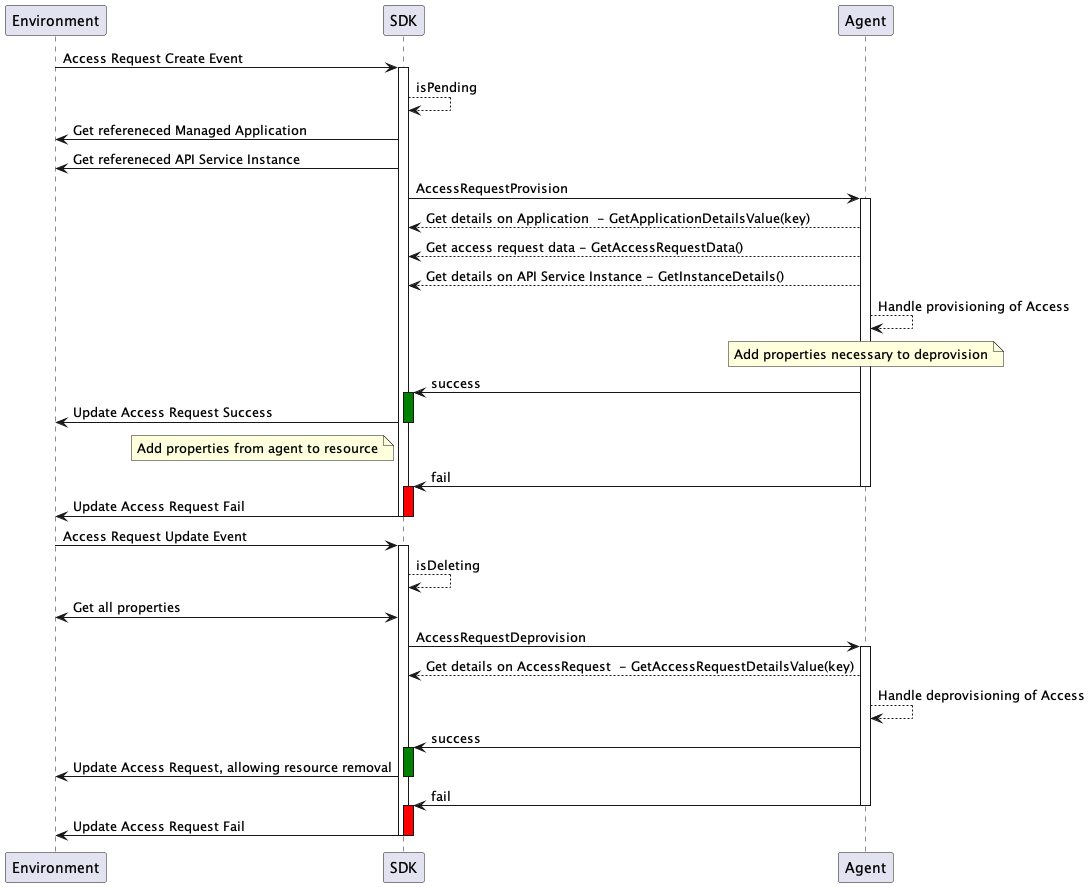
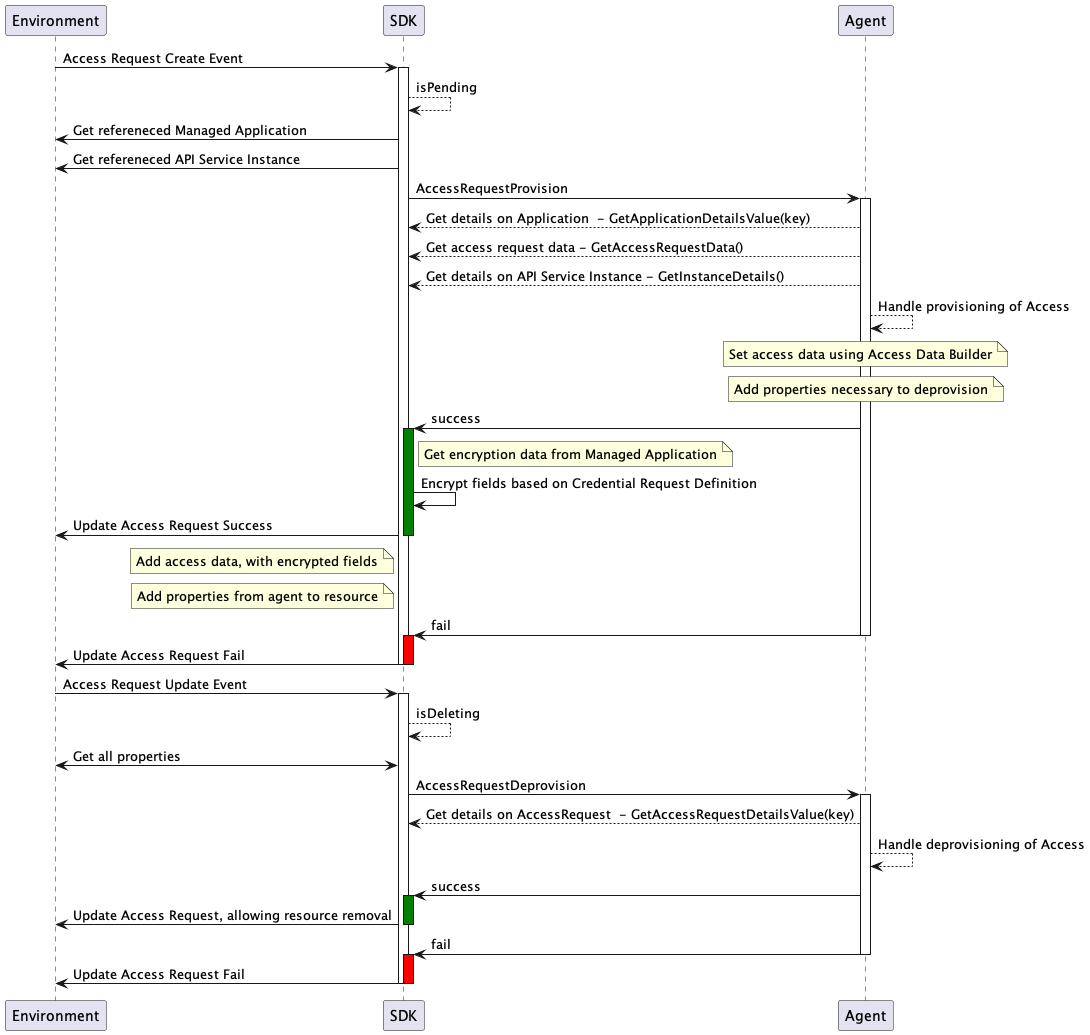
APIGOV-22682 - update docs

diff --git a/docs/discovery/provisioning.md b/docs/discovery/provisioning.md
@@ -18,7 +18,9 @@
       - [RequestStatus return structure](#requeststatus-return-structure)
     - [Application Request Provision and Deprovision](#application-request-provision-and-deprovision)
     - [Access Request Provision and Deprovision](#access-request-provision-and-deprovision)
+      - [Access Request Provisioning](#access-request-provisioning)
     - [Credential Request Provision and Deprovision](#credential-request-provision-and-deprovision)
+      - [Credential Provisioning](#credential-provisioning)
 
 Marketplace Provisioning allows the consumer to create applications, associate products, and create credentials. Amplify Agents SDK watches for API server resources to trigger provisioning events for the agent to handle. The agents can configure data that is required from consumers to provision access or create credentials for the resource in the connected gateway.
 
@@ -52,6 +54,26 @@ func createAccessRequestDefinition(apiName string, tiers []string) {
         SetEnumValues(tiers).
         SetSortEnumValues()).
     Register()
+}
+```
+
+Here are all of the methods allowed on the AccessRequestBuilder
+
+```go
+// AccessRequestBuilder - aids in creating a new access request
+type AccessRequestBuilder interface {
+  // Sets the name of the access request definition
+  SetName(name string) AccessRequestBuilder
+  // Sets the display name of the access request definition
+  SetTitle(title string) AccessRequestBuilder
+  // Sets the Request Schema, data provided by the requestor
+  SetRequestSchema(schema SchemaBuilder) AccessRequestBuilder
+  // Sets the Provision Schema, data provided to the requestor upon provisioning
+  SetProvisionSchema(schema SchemaBuilder) AccessRequestBuilder
+  // Helper to replicate the Request Schema into the Provision Schema
+  SetProvisionSchemaToRequestSchema() AccessRequestBuilder
+  // Builds the AccessRequestDefinition and sends it to API Central
+  Register() (*v1alpha1.AccessRequestDefinition, error)
 }
 ```
 
@@ -90,6 +112,28 @@ func createCredentialRequestDefinitions() {
     agent.WithCRDOAuthPublicKey(),                     // its a key based credential, add public key request property
     agent.WithCRDRequestSchemaProperty(oAuthTypeProp), // add a request schema property
   ).Register()
+}
+```
+
+Here are all of the methods allowed on the AccessRequestBuilder
+
+```go
+// CredentialRequestBuilder - aids in creating a new credential request
+type CredentialRequestBuilder interface {
+  // Sets the name of the credential
+  SetName(name string) CredentialRequestBuilder
+  // Sets the display name of this credential in the UI
+  SetTitle(title string) CredentialRequestBuilder
+  // Sets the Request Schema, data supplied by the requestor
+  SetRequestSchema(schema SchemaBuilder) CredentialRequestBuilder
+  // Sets the Provision Schema, data provided to the requestor upon provisioning
+  SetProvisionSchema(schema SchemaBuilder) CredentialRequestBuilder
+  // Sets a list of webhook names, separately created in Central, that are called on Credential state transitions
+  SetWebhooks(webhooks []string) CredentialRequestBuilder
+  // Adds a webhook name, separately created in Central, that is called on Credential state transitions
+  AddWebhook(webhook string) CredentialRequestBuilder
+  // Builds the CredentialRequestDefinition and sends it to API Central
+  Register() (*v1alpha1.CredentialRequestDefinition, error)
 }
 ```
 
@@ -346,6 +390,10 @@ type ApplicationRequest interface {
   GetManagedApplicationName() string
   // GetApplicationDetailsValue returns a value found on the 'x-agent-details' sub resource of the ManagedApplication
   GetApplicationDetailsValue(key string) string
+	// GetTeamName gets the owning team name for the managed application
+	GetTeamName() string
+	// GetID returns the ID of the resource for the request
+	GetID() string
 }
 ```
 
@@ -362,20 +410,48 @@ Both provision and deprovision requests will receive an AccessRequest object tha
 ```go
 // AccessRequest - interface for agents to use to get necessary access request details
 type AccessRequest interface {
-  // GetApplicationName returns the name of the managed application for this credential
-  GetApplicationName() string
-  // GetAccessRequestDetailsValue returns a value found on the 'x-agent-details' sub resource of the AccessRequest.
-  GetAccessRequestDetailsValue(key string) string
   // GetApplicationDetailsValue returns a value found on the 'x-agent-details' sub resource of the ManagedApplications.
   GetApplicationDetailsValue(key string) string
-  // GetInstanceDetails returns the 'x-agent-details' sub resource of the API Service Instance
-  GetInstanceDetails() map[string]interface{}
+  // GetApplicationName returns the name of the managed application for this credential
+  GetApplicationName() string
+  // GetID returns the ID of the resource for the request
+  GetID() string
+  // GetAccessRequestDetailsValue returns a value found on the 'x-agent-details' sub resource of the AccessRequest.
+  GetAccessRequestDetailsValue(key string) string
   // GetAccessRequestData returns the map[string]interface{} of data from the request
   GetAccessRequestData() map[string]interface{}
+  // GetAccessRequestProvisioningData returns the interface{} of data from the provisioning response
+  GetAccessRequestProvisioningData() interface{}
+  // GetInstanceDetails returns the 'x-agent-details' sub resource of the API Service Instance
+  GetInstanceDetails() map[string]interface{}
 }
 ```
 
 `GetAccessRequestData()` will have the data requested from the Consumer while creating the request.  This data will match the Access Request Definition schema.
+
+`GetAccessRequestProvisioningData()` will have the access data returned by the agent then the AccessRequestProvision method was called.
+
+
+#### Access Request Provisioning
+
+The following method needs to be implemented and will be invoked when a new AccessRequest resource is created in the environment the agent is linked to.
+
+```go
+  AccessRequestProvision(AccessRequest) (RequestStatus, AccessData)
+```
+
+The provision handling expects a response with 2 values, the [RequestStatus](#requeststatus-return-structure) and the AccessData. To create this AccessData object, the Agent SDK providers a builder with the following methods.
+
+
+```go
+// AccessDataBuilder - builder to create new access data to send to Central
+type AccessDataBuilder interface {
+  // Create AccessData that has an unknown data structure
+  SetData(data map[string]interface{}) AccessData
+}
+```
+
+If the AccessRequestDefinition that is being used by this agent does not have or need a Provisioning Schema for the Access Request then the agent implementation can simply return nil as the AccessData
 
 ### Credential Request Provision and Deprovision
 
@@ -386,17 +462,46 @@ Both provision and deprovision requests will receive an CredentialRequest object
 ```go
 // CredentialRequest - interface for agents to use to get necessary credential request details
 type CredentialRequest interface {
-  // GetCredentialType returns the type of credential related to this request
-  GetCredentialType() string
-  // GetApplicationName returns the name of the managed application for this credential
-  GetApplicationName() string
-  // GetCredentialDetailsValue returns a value found on the 'x-agent-details' sub resource of the Credential
-  GetCredentialDetailsValue(key string) string
   // GetApplicationDetailsValue returns a value found on the 'x-agent-details' sub resource of the ManagedApplication.
   GetApplicationDetailsValue(key string) string
+  // GetApplicationName returns the name of the managed application for this credential
+  GetApplicationName() string
+	// GetID returns the ID of the resource for the request
+	GetID() string
+  // GetCredentialDetailsValue returns a value found on the 'x-agent-details' sub resource of the Credential
+  GetCredentialDetailsValue(key string) string
+  // GetCredentialType returns the type of credential related to this request
+  GetCredentialType() string
   // GetCredentialData returns the map[string]interface{} of data from the request
   GetCredentialData() map[string]interface{}
 }
 ```
 
-`GetCredentialData()` will have the data requested from the Consumer while creating the request.  This data will match the Credential Request Definition request schema.
+`GetCredentialData()` will have the data requested from the Consumer while creating the request.  This data will match the Credential Request Definition request schema
+
+#### Credential Provisioning
+
+The following method needs to be implemented and will be invoked when a new Credential resource is created in the environment the agent is linked to.
+
+```go
+  CredentialProvision(CredentialRequest) (RequestStatus, Credential)
+```
+
+The provision handling expects a response with 2 values, the [RequestStatus](#requeststatus-return-structure) and the Credential. To create this Credential object, the Agent SDK providers a builder with the following methods.
+
+
+```go
+// CredentialBuilder - builder to create new credentials to send to Central
+type CredentialBuilder interface {
+  // Create a Credential that only sets an OAuth Client ID value
+  SetOAuthID(id string) Credential
+  // Create a Credential that sets an OAuth Client ID and Secret value
+  SetOAuthIDAndSecret(id, secret string) Credential
+  // Create a Credential that only sets an API Key value
+  SetAPIKey(key string) Credential
+  // Create a Credential that has a unknown data structure
+  SetCredential(data map[string]interface{}) Credential
+}
+```
+
+All of the builder methods above return the Credential object. The Agent SDK is able to assist in building the credential objects for OAuth and API Key authentication, if the agent needs to supply data that is not one of those known structures the SetCredential method should be used
